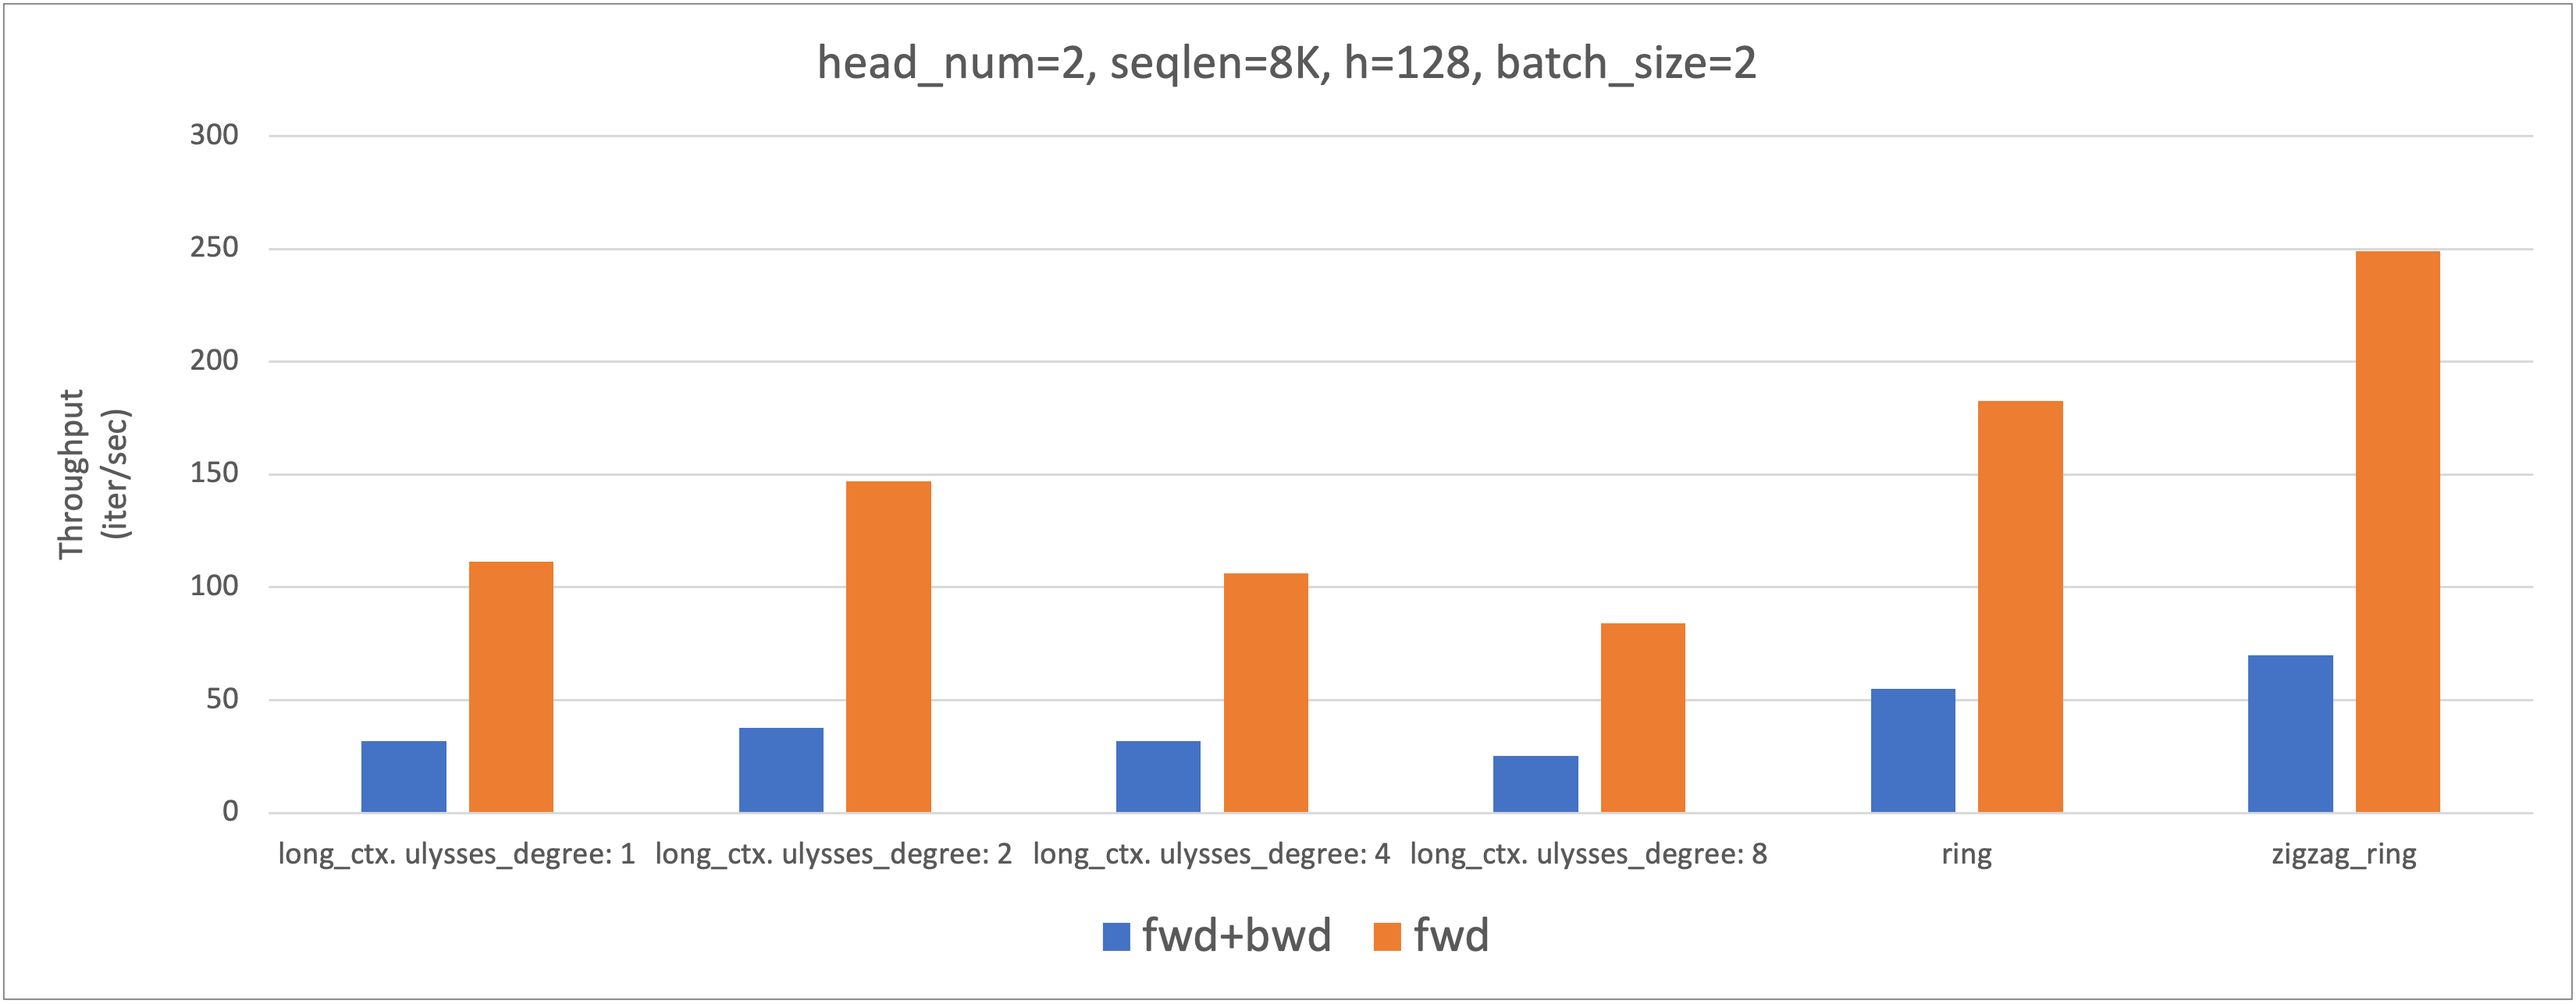
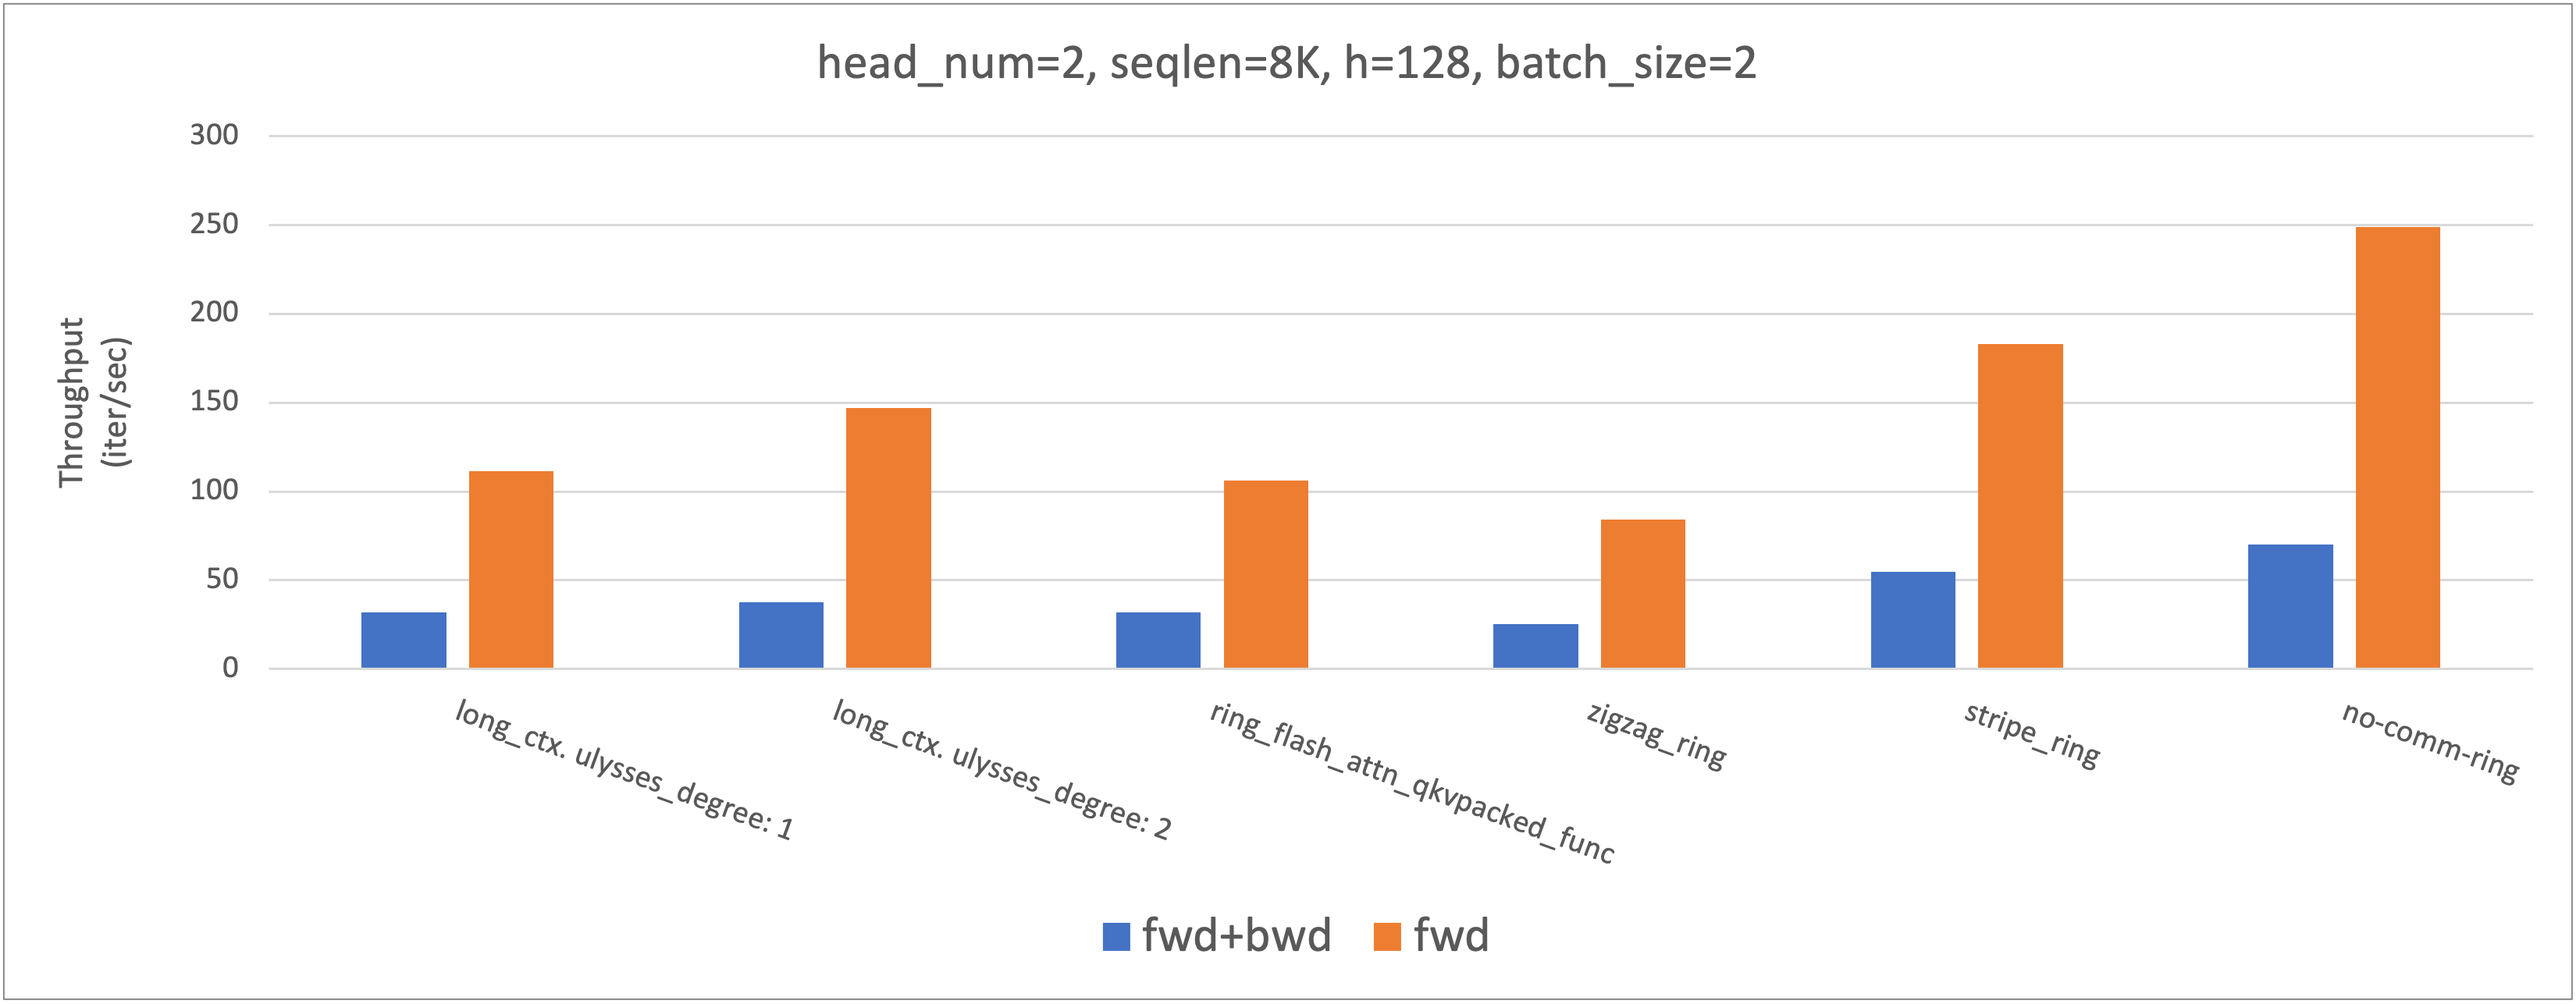
update readme

diff --git a/README.md b/README.md
@@ -30,6 +30,8 @@ torchrun --nproc_per_node 2 benchmark/benchmark_longctx_qkvpacked.py --nheads 2 
 torchrun --nproc_per_node 2 benchmark/benchmark_qkvpacked_func.py --nheads 2 --batch_size 2 --fwd_only $FWD_FLAG
 ```
 
+no-comm-ring is an ideal flash-attention version without communications.
+
 ![head=8](./media/long_ctx_h8.png)
 ![head=8](./media/long_ctx_h2.png)
 
@@ -68,16 +70,6 @@ There are some arithmetic errors with the current implementation. The reason for
 
 And also because we need to save extra fp32 buffer during computation, the memory usage would be higher than theoretic limit.
 
-### TODOs
-
-- [x] Implement `ring_flash_attn_varlen_qkvpacked_func`
-- [x] Implement `zigzag_ring_flash_attn_qkvpacked_func` [issue#2](https://github.com/zhuzilin/ring-flash-attention/issues/2)
-- [x] Implement `stripe_flash_attn_qkvpacked_func`
-- [x] Implement `zigzag_ring_flash_attn_varlen_qkvpacked_func`
-- [x] Implement `*_kvpacked_func` and `*_func` variant for all APIs
-- [ ] Optimize `*_varlen_func`
-- [ ] Try to upstream to flash attention.
-
 ### Test
 
 ```bash
@@ -87,6 +79,12 @@ torchrun --nproc_per_node 8 test/test_zigzag_ring_flash_attn_func.py
 torchrun --nproc_per_node 8 test/test_zigzag_ring_flash_attn_varlen_func.py
 torchrun --nproc_per_node 8 test/test_stripe_flash_attn_func.py
 ```
+
+### TODOs
+
+- [ ] LongContext Attention uses `zigzag_ring_flash_attn_qkvpacked_func`
+- [ ] LongContext Attention uses  `stripe_flash_attn_qkvpacked_func`
+- [ ] LongContext Attention uses  `zigzag_ring_flash_attn_varlen_qkvpacked_func`
 
 ## Citation
 ```
